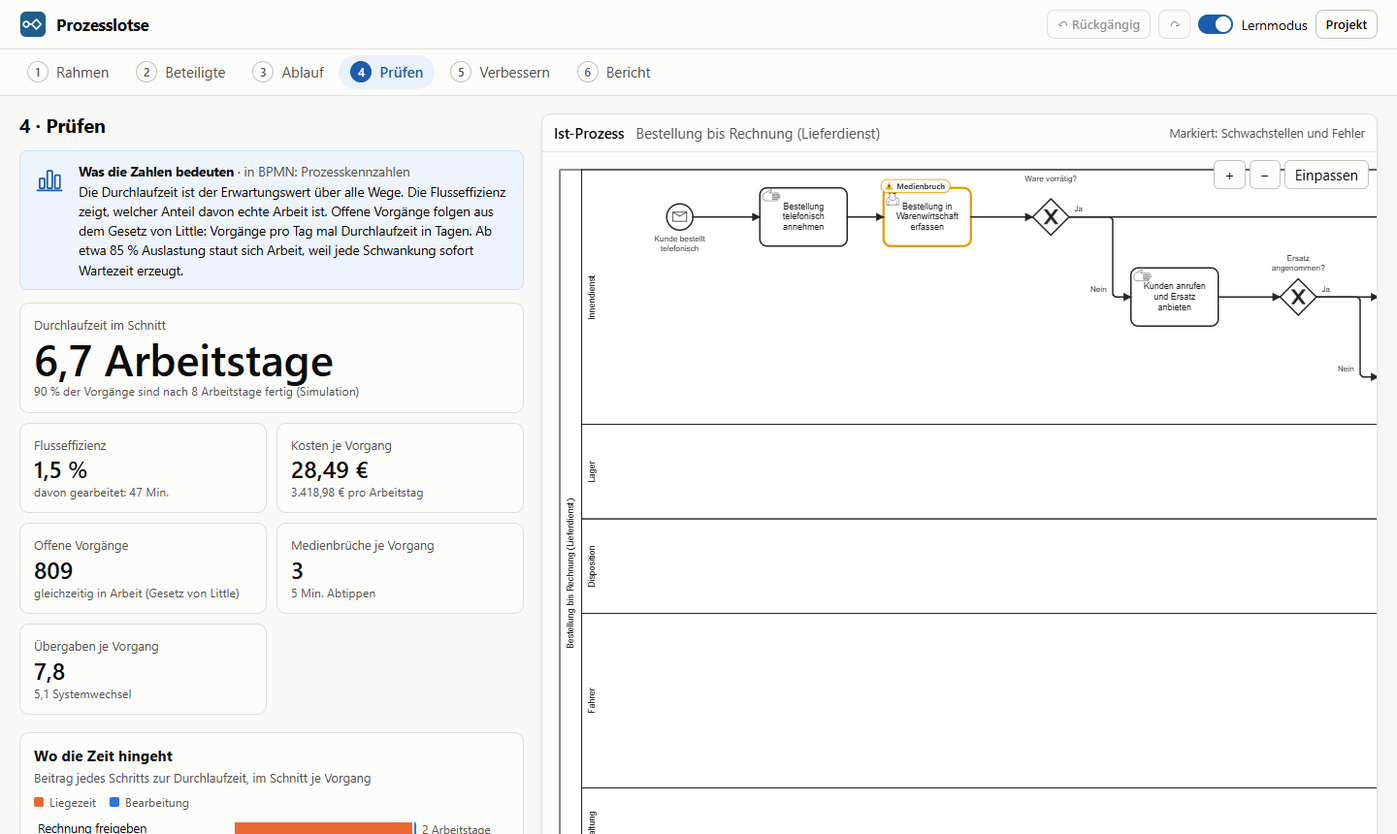
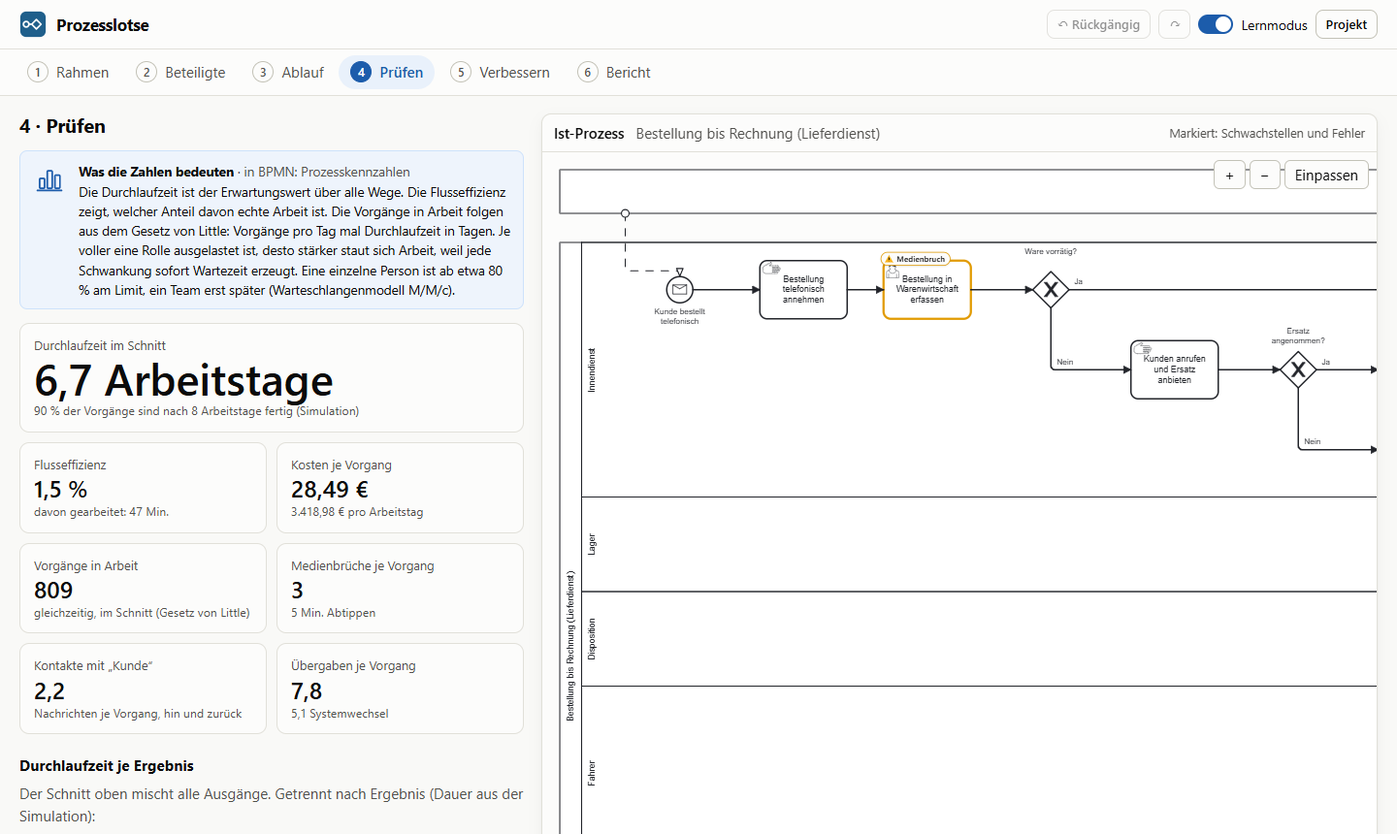
Doku: Stand nach der abschließenden Prüfung
- modellierung-stand.md: Abschnitt „Abschließende Prüfung“ mit Befunden,
  Korrekturen, Stichproben von Hand, verbleibenden Mängeln, Testzahlen.
- fragenkatalog.md: „Prozess endet“ wird in jedem Zweig angeboten (an
  nebenläufigen Stellen als „Prozess endet sofort“), Rücksprünge dort nicht.
- datenmodell.md, modellierung-v4.md: Ad-hoc-Bedingung in natürlicher
  Sprache, Stufen unter Schritten 20 px.
- README: 258 Unit-Tests; Bilder mit der neuen Linienführung neu
  aufgenommen.

diff --git a/docs/modellierung-v4.md b/docs/modellierung-v4.md
@@ -286,7 +286,7 @@ export interface Unterbrechung extends Sequenz {
 - Spalte 0 ist der Schritt (Aufgabe oder Rahmen). Jeder Ausnahmeweg bekommt ab Spalte 1 ein eigenes Band unter dem Band des Schritts, gestapelt wie Zweige, auch in anderen Bahnen. Die Zusammenführung steht, falls nötig, in der Bahn des Schritts hinter dem breitesten Weg. Der normale Ausgang läuft gerade weiter.
 - Randereignisse sitzen auf der Unterkante, von rechts nach links in der Reihenfolge ihrer Bänder (das oberste Band ganz rechts), Mittelpunkte 38 px auseinander; so schachteln sich die Abgänge ohne Kreuzung. An einer Aufgabe höchstens drei; an einem Rahmen so viele, wie neben der Mitte Platz haben, sonst bekommt der Rahmen am Ende leere Spalten. Die Fehler-Randereignisse für Enden im Rahmen (siehe „Ende je nach Ort“) werden genauso gelegt, als Ausnahmeweg ohne Schritte mit Ende.
 - Abgang: Liegt das erste Element des Ausnahmewegs in der Bahn des Schritts, läuft der Fluss vom Kreis senkrecht nach unten in Spalte 0 bis zu dessen Höhe und dann waagerecht. Spalte 0 ist in den Bändern des Blocks frei; das ist die ausdrücklich erlaubte Ausnahme von „senkrecht nur in Lücken“. Sonst endet das senkrechte Stück in einer dünnen Abgangsspur unter dem Schritt, und der Höhenwechsel geschieht im Kanal der Lücke hinter dem Schritt.
-- Nachricht zu einem Randereignis: vom Kreis unten links (45°) ein senkrechter Stummel nach unten (8 px plus 8 px je Randereignis links davon), waagerecht in die Lücke vor dem Schritt und dort im Kanal zum Pool. Alle waagerechten Stücke unter einem Schritt (Abgänge in der Abgangsspur, Nachrichten) bekommen getrennte Höhen im Abstand von 8 px. Eigene Nachrichten einer Aufgabe mit Randereignissen laufen über die Oberkante.
+- Nachricht zu einem Randereignis: vom Kreis unten links (45°) ein senkrechter Stummel nach unten (8 px plus 8 px je Randereignis links davon), waagerecht in die Lücke vor dem Schritt und dort im Kanal zum Pool. Alle waagerechten Stücke unter einem Schritt (Abgänge in der Abgangsspur, Nachrichten) bekommen getrennte Höhen im Abstand von 8 px (seit der abschließenden Prüfung 20 px, weil sie unter einem Rahmen über seine ganze Breite nebeneinander laufen). Eigene Nachrichten einer Aufgabe mit Randereignissen laufen über die Oberkante.
 - Ein leerer „weiter“-Weg bekommt eine Spur wie ein leerer Zweig und mündet von unten in die Zusammenführung.
 
 **Rechnung** für einen Schritt mit Häufigkeit f, unterbrechenden Ereignissen j (q_j, t_j, Ausnahmeweg A_j) und Nebenwegen k (c_k):
@@ -337,7 +337,7 @@ export interface Unterbrechung extends Sequenz {
 - *TCT einer Frist am Rahmen:* E[min(t, TCT)] aus der Verteilung der Bearbeitungszeit des Durchlaufs; die Zeit bis zur Unterbrechung verteilt sich in „Wo die Zeit hingeht“ anteilig auf die Schritte des Rahmens (an einer Aufgabe: Bearbeitung min(B, max(0, t − L)), der Rest Liegezeit), so dass die Beiträge die Durchlaufzeit genau ergeben.
 - *Übergaben:* Vor einem Ausnahmeweg oder Nebenweg eines Rahmens arbeitet dessen letzte Aufgabe (wie bei unterbrechenden Ereignissen), nicht der Vorgänger. Kontakte mit externen Beteiligten zählen eine Nachricht je eingetretener Unterbrechung. `Kennzahlen.haeufigkeiten` nennt, wie oft jede Stelle je Vorgang erreicht wird (auch Abschnitte und Unterbrechungen); das Formular zeigt damit „bei Ø 2 Ausführungen je Vorgang etwa 19 % der Vorgänge“ (1 − (1 − q)^h).
 - *Prüfung:* Neue Schlüssel `usumme`, `uanteil`, `ufrist`, `uviele`, `nebenende` (Ende oder Rücksprung im Nebenweg, auch tiefer darin oder aus ihm heraus), `ubezeichnung`, `uleer`, `ufristkurz`, `ufristrahmen` (laut der Verteilung des Rahmens mehr als 0,5 Prozentpunkte öfter überschritten als angegeben), `unie`, `unormal`, `umehrmals` (strukturell: der Schritt liegt in einer Wiederholung oder in „für jedes Stück“). Abweichung von Schritt 1 und 2: **„Verklemmung“ nur noch bei „Gleichzeitig“** außerhalb des äußersten Rahmens. Ein Ende in einem ODER-Weg ist der Fehler `abbruch`, denn die inklusive Zusammenführung wartet nach der Regel der Norm nicht auf einen beendeten Weg; der Vorgang liefe im BPMN weiter. Aufgefallen ist das, weil der Zufallsgenerator mit `auchUngueltig` jetzt Enden in Ausnahmewegen innerhalb von ODER-Wegen erzeugt und das Tokenspiel sie als sound bestätigte.
-- *Layout:* Der Block „Schritt mit Unterbrechungen“ (`layoutRandwege`) legt auch die Fehler-Randereignisse der Rahmen aus Schritt 1; ihre Diagramme bleiben gleich. Die Abgänge laufen über die allgemeine Linienführung: Ein Ersatzknoten in der letzten Spalte des Schritts steht auf der Höhe, auf der der Abgang waagerecht weiterläuft, davor kommt das senkrechte Stück vom Kreis. Die Abgangsspur entsteht nur, wenn ein Weg in einer anderen Bahn beginnt, ohne Schritte zurückspringt oder eine Nachricht zu einem Randereignis führt; sie trägt alle waagerechten Stücke unter dem Schritt (zuerst die Nachrichten, dann die Abgänge) im Abstand von 8 px und wächst mit ihnen. Abweichung: Über die Abgangsspur steht das Ereignis mit dem höchsten Ziel ganz rechts (nicht die Reihenfolge der Bänder); nur so kreuzen sich Abgänge nach oben und nach unten nicht. An einer Aufgabe sitzt das rechte Ereignis 22 px vor der rechten Kante, damit drei auf 120 px passen. Der Name eines Randereignisses steht an seinem Abgang, gewählt wie die Beschriftung eines Flusses.
+- *Layout:* Der Block „Schritt mit Unterbrechungen“ (`layoutRandwege`) legt auch die Fehler-Randereignisse der Rahmen aus Schritt 1; ihre Diagramme bleiben gleich. Die Abgänge laufen über die allgemeine Linienführung: Ein Ersatzknoten in der letzten Spalte des Schritts steht auf der Höhe, auf der der Abgang waagerecht weiterläuft, davor kommt das senkrechte Stück vom Kreis. Die Abgangsspur entsteht nur, wenn ein Weg in einer anderen Bahn beginnt, ohne Schritte zurückspringt oder eine Nachricht zu einem Randereignis führt; sie trägt alle waagerechten Stücke unter dem Schritt (zuerst die Nachrichten, dann die Abgänge) im Abstand von 8 px (seit der abschließenden Prüfung 20 px) und wächst mit ihnen. Abweichung: Über die Abgangsspur steht das Ereignis mit dem höchsten Ziel ganz rechts (nicht die Reihenfolge der Bänder); nur so kreuzen sich Abgänge nach oben und nach unten nicht. An einer Aufgabe sitzt das rechte Ereignis 22 px vor der rechten Kante, damit drei auf 120 px passen. Der Name eines Randereignisses steht an seinem Abgang, gewählt wie die Beschriftung eines Flusses.
 - *Tokenspiel:* Ein Nebenweg startet in einer eigenen Instanz `Pfad/Randereignis:n`, damit sich mehrere Nebenwege nicht mischen (sonst führte eine ODER-Zusammenführung darin zwei Läufe zusammen) und in Schleifen nie zwei Marken auf einem Fluss liegen. Die vollständige Suche schaltet Marken in Nebenwegen vorrangig: Sie teilen keinen Fluss mit dem übrigen Ablauf, ein Abbruch wartet ohnehin auf sie, also übersieht diese Reihenfolge keine Verklemmung; ohne sie wüchse der Zustandsraum mit jeder Schleife. Die Wahl am Rahmen bei einem anstehenden Abbruch nennt alle Rahmen mit Unterbrechungen zwischen dem Fehler-Ende und dem fangenden Rahmen, von innen nach außen, mit den Gewichten q · Π(1 − Σq der inneren Rahmen).
 - *Oberfläche:* Die Gliederung zeigt statt „⚡“ das Symbol des Randereignisses (durchgezogen bzw. gestrichelt), passend zu den übrigen Symbolen. Die Fragen stehen im Formular aller drei Schritte, für neue wie bestehende; eine neue Aufgabe mit Unterbrechung führt nach „Hinzufügen“ in den ersten Ausnahmeweg, Abschnitt und „für jedes Stück“ wie bisher in den Körper. „Gilt für die ganze Liste“ und „Gilt für mehrere Schritte …“ sind Knöpfe im Formular bestehender Schritte (`verschiebeUnterbrechung`, `unterbrechungFuerAbschnitt`); ein Rücksprung der Unterbrechung entfällt beim Umhängen. „Abschnitt auflösen“ fragt nach, wenn der Abschnitt Unterbrechungen hat. Der Absender einer Nachricht lässt sich direkt im Formular als neuer externer Beteiligter anlegen.
 - *Verbesserungsregeln:* „Zusammenlegen“ und die Knock-out-Reihenfolge lassen Aufgaben mit Unterbrechungen aus, „Gleichzeitig ausführen“ verlangt auch vom zweiten Schritt, dass er den Prozess nicht verlässt.
@@ -375,7 +375,7 @@ Ein Feld statt zweier: „erster“ zusammen mit „nacheinander“ gibt es nich
 
 **nacheinander** („eine Person nacheinander, Reihenfolge egal“):
 
-- BPMN: `adHocSubProcess` mit `ordering="Sequential"` und `completionCondition` „alle Zweige erledigt“ (`tFormalExpression` mit diesem Text), dazu eine Dokumentation. Je Zweig genau eine Aktivität ohne Sequenzfluss: Ein Zweig aus genau einer Aufgabe, einem Abschnitt oder einem Mehrfach-Baustein ohne Unterbrechungen bleibt, wie er ist; alles andere wird ein eingebetteter Teilprozess „Zweig n“ mit eigenem Start und Ende. Direkt im Ad-hoc-Rahmen stehen keine Start- und Endereignisse.
+- BPMN: `adHocSubProcess` mit `ordering="Sequential"` und `completionCondition` „alle Zweige erledigt“ (seit der abschließenden Prüfung als einfacher Ausdruck in natürlicher Sprache, `tExpression`; ein `tFormalExpression` ohne Sprache wäre XPath), dazu eine Dokumentation. Je Zweig genau eine Aktivität ohne Sequenzfluss: Ein Zweig aus genau einer Aufgabe, einem Abschnitt oder einem Mehrfach-Baustein ohne Unterbrechungen bleibt, wie er ist; alles andere wird ein eingebetteter Teilprozess „Zweig n“ mit eigenem Start und Ende. Direkt im Ad-hoc-Rahmen stehen keine Start- und Endereignisse.
 - Layout: Rahmen in einer Bahn; die Aktivitäten untereinander in der ersten Spalte des Rahmens (eingebettete Zweige sind selbst Rahmen); Ein- und Austritt auf Höhe der ersten Aktivität.
 - Rechnung: wie eine Folge der Zweige in der Reihenfolge der Liste: Dauer = Summe, Häufigkeiten, Enden und Übergaben (vom letzten Schritt eines Zweigs zum ersten des nächsten) wie in einer Folge. Grenze: Die Reihenfolge der Liste ist eine Annahme.
 - Enden in einem Zweig sind erlaubt (Fehler-Ende im eingebetteten Teilprozess, es steigt zum äußersten Rahmen auf); spätere Zweige laufen dann nicht. Rücksprünge nur innerhalb eines Zweigs.

diff --git a/docs/modellierung-stand.md b/docs/modellierung-stand.md
@@ -136,8 +136,34 @@ Hinweise für die abschließende Prüfung:
 - Rücksprünge innerhalb eines Zweigs von Gleichzeitig erlauben Modell und Prüfung, das Formular bietet sie nicht an (unverändert seit Format 3).
 - Probe außerhalb der festen Tests: alle 226 Zufallsprozesse mit Abbruch unter den Startwerten 1 bis 600 stimmen in Simulation, Verteilung, Tokenspiel (Häufigkeiten und Ergebnisse) und Soundness überein.
 
+## Abschließende Prüfung
+
+Am 2026-11-11 gegen BPMN 2.0, die Zeichenregeln und die Rechnung geprüft. Commits auf `modellierung`: 122dbed „Lange parallele Linien mindestens 20 px auseinander“, 724d10e (Ad-hoc-Bedingung), a1defca (Hinweis „Lange Liegezeit“), e377384 (Simulation bei fehlendem Standardweg) und der Doku-Commit „Doku: Stand nach der abschließenden Prüfung“.
+
+- [x] **Lange Parallelen (Befund abnahme-4 der Compliance-Prüfung).** Im Beispiel Lieferdienst liefen die Nachrichten „Benachrichtigung hinterlassen → Kunde“ und „Kunde → Neuen Liefertermin abwarten“ 777 px senkrecht mit 10 px Abstand; die Fächer aus Gleichzeitig-Rauten liefen mit 10 px (bei vielen Wegen weniger) lange parallel. In 300 Zufallsprozessen gab es 1 351 Paare mit 10 px Abstand über mehr als 300 px. Neu: Zwei Flüsse, die länger als 100 px nebeneinander laufen, liegen mindestens 20 px auseinander (`PARALLEL` in `linien.ts`, Prüfung `langeParallelen` in `geometrieFehler`). Schwelle: „Einpassen“ verkleinert das Lieferdienst-Diagramm auf einem Notebook auf 0,18; 10 px werden dort 1,8 Gerätepixel (verschmolzen, gemessen in der Compliance-Abnahme), 20 px 3,6 Gerätepixel mit hellen Spalten dazwischen. Unter 100 px (verkleinert etwa 18 Gerätepixel) sind beide Knicke nahe beieinander sichtbar. 20 px ist der größte Abstand, mit dem drei Senkrechte auf die untere Kante einer 50-px-Raute passen.
+  - Kanäle: Spuren 24 px statt 10 px, wenn ihre Stücke länger als 100 px nebeneinander laufen; Spuren bleiben 20 px neben den Senkrechten an Rauten.
+  - Rauten: Senkrechte 20 px auseinander über die ganze Kante (der tiefste Weg links außen, nicht mehr an der unteren Ecke). Passen sie nicht, wechselt die flachste die Höhe in der Lücke (Stummel). Stummel liegen möglichst 20 px auseinander und dürfen an eine freie seitliche Ecke; ihre Spuren liegen direkt neben der Raute (Kosten in `ordneKanal`, Ausrichtung der Lücke zur Raute), damit ihre waagerechten Stücke kurz bleiben.
+  - Waagerechte Stücke unter einem Schritt (Abgänge, Nachrichten zu Randereignissen) 20 px statt 8 px auseinander (`RAND.stufe`); unter einem Rahmen liefen zwei Nachrichten sonst 504 px mit 8 px Abstand.
+  - Grenze: Mehr als etwa sechs Wege in eine Richtung (z. B. acht Fälle in derselben Bahn) passen nicht mit Abstand auf eine Raute; dann liegen sie wie bisher dicht, aber nie auf einer Strecke (Test „Grenze: mehr als sechs Wege …“, README).
+  - Angesehen mit `render.mjs` vorher und nachher, eingepasst, mit `SKALA=0.5` und auf Notebook-Zoom 0,18 mit Lupe: Lieferdienst, Onlinebestellung (Fächer aus Gleichzeitig und Ereignis-Entscheidung) und Zufallsprozess 8 (drei Fächer). Vorher verschmelzen Nachrichten und Fächer zu einer Linie, nachher sind sie getrennt erkennbar. Prüfsummen der Beispiele neu aufgenommen; der Formattest vergleicht zusätzlich das BPMN vor und nach dem Lesen.
+- [x] **Ad-hoc-Teilprozess:** Die `completionCondition` „alle Zweige erledigt“ stand als `tFormalExpression`; ohne Angabe der Sprache ist das XPath, also kein gültiger Ausdruck. Jetzt ein einfacher Ausdruck in natürlicher Sprache (`tExpression`), wie ihn BPMN 2.0 für nicht ausführbare Bedingungen vorsieht (Test in `gleichzeitig.test.ts`).
+- [x] **Hinweis „Lange Liegezeit“ bei Fristen:** Im Rundgang stand „Vor „Ware verpacken“ liegt der Vorgang 0 Min., das sind 57 % der Durchlaufzeit“. Die Zeit bis zum Ablauf einer Frist zählt zur Liegezeit des Schritts, das Feld Liegezeit kennt sie nicht. Jetzt: „… hält den Vorgang im Schnitt 48 Min. auf, ohne dass daran gearbeitet wird: 0 Min. Liegezeit davor und 48 Min. Warten, bis eine Frist abläuft …“ (Test in `unterbrechung.test.ts`, von Hand: 0,1 · (480 − 5) = 47,5 Min.).
+- [x] **Simulation bei fehlendem Standardweg einer ODER-Verzweigung** (nur in von Hand geänderten Dateien; die Prüfung meldet den Fehler, „Prüfen“ simuliert trotzdem): Sie brach mit einem Laufzeitfehler ab. Jetzt gilt wie in der Rechnung „mindestens einer“ (Test in `oder.test.ts`, von Hand 17,5 / 0,75 = 23,33 Min.).
+- [x] **Fragenkatalog:** „Prozess endet“ stand noch als „nur in Zweigen von „in beliebiger Reihenfolge““; seit Schritt 5 gibt es das Ende in jedem Zweig, an nebenläufigen Stellen als „Prozess endet sofort …“, ohne Rücksprünge.
+- [x] **Ohne Befund geprüft:**
+  - Stichproben von Hand gegen Formeln und Simulation (40 000 Läufe): „für jedes Stück“ nacheinander mit Nachricht am Rahmen (99,75 Min., TCT 28,5, Arbeit 30, 10 % storniert), Abschnitt mit schwankender Dauer und Frist (36,25 Min., TCT 33,75), „in beliebiger Reihenfolge“ mit Mehrfach-Zweig und „Zweig 3“ (80 Min.), Stücke zur selben Zeit mit Abbruch (13,2 Min., 36 % Ausfall = 1 − 0,8²), Nachricht „vorher“ mit „noch einmal von vorn“ (107,5 Min., TCT 40, Arbeit 47,5, Häufigkeit 1,25), „weiter beim ersten“ mit Ende im schnellsten Zweig (23,5 Min., Arbeit 113,5, 30 % abgelehnt), ODER mit Ende in einem Weg im Abschnitt (29,5 Min., 6 % ungültig, Arbeit 30,7). Alle Formeln exakt, Simulation innerhalb von vier Standardfehlern; bpmn-moddle und bpmn-js ohne Warnungen; Tokenspiel sound auf Layout und XML.
+  - BPMN-Semantik: Fehler-Ende im Rahmen mit `errorRef`, gefangen am äußersten Rahmen, auch durch Mehrfach- und Ad-hoc-Rahmen; Terminierung in „weiter beim ersten“ beendet nur den Teilprozess; Terminierung auf Prozessebene nur neben Nebenläufigem; Randereignisse mit `cancelActivity`; Mehrfach mit `isSequential` und `loopCardinality` nur bei fester ganzer Zahl.
+  - Rundgang im Browser über den Assistenten mit allen Formen in einem Prozess (Abschnitt mit „für jedes Stück“ zur selben Zeit, Aufgabe mit Frist, „weiter beim ersten“ mit „Prozess endet sofort“, „in beliebiger Reihenfolge“): keine Konsolenfehler, Gliederung, Prüfen und Export stimmig; dazu die Browsertests je Form.
+
+Verbleibende Mängel:
+
+- Sehr große Fächer (mehr als etwa sechs Wege in eine Richtung) liegen dichter als 20 px (Grenze in README).
+- Nachrichtenflüsse dürfen Rahmen senkrecht queren und laufen dabei manchmal durch den Namen des Rahmens (zählt in `beschriftungenAufLinien`, unter 2 %).
+- Zeit-Randereignisse tragen die Frist nur in der Dokumentation, nicht als `timeDuration` (die Frist ist in Arbeitszeit angegeben, ISO-Dauern sind Kalenderzeit).
+
 ## Offen für Robin
 
+- Linienführung abnehmen: lange Parallelen jetzt 20 px (Rauten) bzw. 24 px (Kanäle) auseinander, der tiefste Weg eines Fächers liegt nicht mehr an der unteren Ecke, Stufen unter Schritten 20 px; Bilder vorher/nachher im Prüfbericht. Die README-Bilder zeigen das Beispiel mit der neuen Linienführung.
 - Bedienprobe: Eine Person ohne BPMN-Kenntnis bildet drei Fälle ab (Kunde schickt Unterlagen; Ausweis und/oder Nachweis fehlt; je Position kommissionieren); danach die Texte anpassen.
 - Bewusst nicht übernommen: ODER als Kombinationen abfragen (Format 3 fragt Häufigkeiten je Weg), „übrige Zweige laufen zu Ende“ bei „weiter beim ersten“, zugeklappte Teilprozesse.
 - Annahmen in den README-Grenzen: abgebrochene Arbeit zählt voll, „weiter beim ersten“ bricht ab, „in beliebiger Reihenfolge“ in Listenreihenfolge (seit Schritt 4), Nebenwege verlängern nichts und Unterbrechungen mit festen Anteilen (seit Schritt 3), der früheste Abbruch nach Durchschnittszeiten und Schritte hinter einer ODER-Zusammenführung zählen nicht, wenn ein Weg den Vorgang beendet (seit Schritt 5).
@@ -155,3 +181,4 @@ Hinweise für die abschließende Prüfung:
 | Schritt 3, Unterbrechung (Commits 5d73e28 und addb89b) | 210 in 20 Dateien | 23 |
 | Schritt 4, Gleichzeitig-Arten (Commit 3c1d07f) | 231 in 21 Dateien | 25 |
 | Schritt 5, Abbruch (Commit 8b2b56c) | 253 in 22 Dateien | 26 |
+| Abschließende Prüfung (Commits 122dbed bis e377384) | 258 in 22 Dateien | 26 |

diff --git a/docs/fragenkatalog.md b/docs/fragenkatalog.md
@@ -34,9 +34,9 @@ Der Assistent führt eine **Einfügeposition**: Er fragt immer an einer bestimmt
 | Antwort | Folgefragen | Danach |
 | --- | --- | --- |
 | Eine Aufgabe | Name (Objekt + Verb) · Wer? (Rolle) · Womit? (System) · Wie lange dauert die Bearbeitung? · Wie lange liegt der Vorgang vorher? · Braucht dieser Schritt das Ergebnis des vorherigen? (nur wenn es einen gibt) · Werden Daten von Hand übertragen? Wenn ja: aus welchem System, wie viele Minuten davon? · Bei externen Beteiligten: Schickt der Schritt etwas an jemand Externen? Bekommt er etwas von jemand Externem? · Ist es eine Prüfung oder eine Freigabe? Bei Freigabe: Wie oft wird freigegeben? (Folgt direkt eine Entscheidung, gilt deren Ausgang, und die Frage entfällt.) | weiter hinter der Aufgabe |
-| Eine Entscheidung | Wovon hängt ab, wie es weitergeht: von einer Prüfung oder Angabe, oder davon, was zuerst passiert? · Welche Frage wird entschieden bzw. worauf wird gewartet? · Welche Ausgänge gibt es (Bezeichnung, Anteil in %)? Bei „was zuerst passiert“ je Ausgang: Nachricht oder Frist, nach welcher Zeit im Schnitt? · Danach: weiter im Ablauf, Prozess endet (mit welchem Ergebnis?) oder zurück zu einem früheren Schritt (Auswahl aus den Schritten davor) | weiter im ersten Ausgang |
+| Eine Entscheidung | Wovon hängt ab, wie es weitergeht: von einer Prüfung oder Angabe, oder davon, was zuerst passiert? · Welche Frage wird entschieden bzw. worauf wird gewartet? · Welche Ausgänge gibt es (Bezeichnung, Anteil in %)? Bei „was zuerst passiert“ je Ausgang: Nachricht oder Frist, nach welcher Zeit im Schnitt? · Danach: weiter im Ablauf, Prozess endet (mit welchem Ergebnis?) oder zurück zu einem früheren Schritt (Auswahl aus den Schritten davor). Neben gleichzeitig laufenden Schritten (Zweige, ODER-Wege, Stücke zur selben Zeit) heißt das Ende „Prozess endet sofort; was gleichzeitig läuft, wird abgebrochen“, und Rücksprünge werden dort nicht angeboten; im Nebenweg einer Unterbrechung gibt es weder Ende noch Rücksprung | weiter im ersten Ausgang |
 | Mehrere Wege möglich | Worum geht es? · Welche Wege kommen in Frage (Bezeichnung) und wie oft kommt jeder vor (Anteil in %)? · Was passiert, wenn keiner zutrifft: eigener Weg (mit Namen) oder trifft immer mindestens einer zu? Im zweiten Fall ergeben die Anteile zusammen mindestens 100 %; die Summe steht unter den Wegen. | weiter im ersten Weg |
-| Mehrere Dinge unabhängig voneinander („gleichzeitig, in beliebiger Reihenfolge oder bis eins fertig ist“) | Wann geht es weiter? (wenn alle fertig sind, Vorgabe / sobald eins fertig ist, die anderen werden abgebrochen) · nur bei „alle fertig“: Wer erledigt die Zweige? (zur selben Zeit, Vorgabe / eine Person nacheinander, Reihenfolge egal) · Zweige (zwei, „+ Zweig“). Darunter die Abgrenzung: „Hängt es davon ab, was von außen zuerst passiert (Antwort, Frist)? Dann ist es eine Entscheidung „was zuerst passiert“.“ Bei „weiter beim ersten“ und „in beliebiger Reihenfolge“ nennt das Formular die Bahn des Rahmens; bei „weiter beim ersten“ steht je Zweig, wie oft er laut Rechnung zuerst fertig ist. Titel nach Art: „Gleichzeitig“, „Weiter beim ersten“, „In beliebiger Reihenfolge“ (je mit Zahl der Zweige). | weiter im ersten Zweig („in Zweig 1 von „Weiter beim ersten““); „Abschnitt fertig“ führt in den nächsten Zweig, nach dem letzten dahinter. „Prozess endet“ wird nur in Zweigen von „in beliebiger Reihenfolge“ angeboten |
+| Mehrere Dinge unabhängig voneinander („gleichzeitig, in beliebiger Reihenfolge oder bis eins fertig ist“) | Wann geht es weiter? (wenn alle fertig sind, Vorgabe / sobald eins fertig ist, die anderen werden abgebrochen) · nur bei „alle fertig“: Wer erledigt die Zweige? (zur selben Zeit, Vorgabe / eine Person nacheinander, Reihenfolge egal) · Zweige (zwei, „+ Zweig“). Darunter die Abgrenzung: „Hängt es davon ab, was von außen zuerst passiert (Antwort, Frist)? Dann ist es eine Entscheidung „was zuerst passiert“.“ Bei „weiter beim ersten“ und „in beliebiger Reihenfolge“ nennt das Formular die Bahn des Rahmens; bei „weiter beim ersten“ steht je Zweig, wie oft er laut Rechnung zuerst fertig ist. Titel nach Art: „Gleichzeitig“, „Weiter beim ersten“, „In beliebiger Reihenfolge“ (je mit Zahl der Zweige). | weiter im ersten Zweig („in Zweig 1 von „Weiter beim ersten““); „Abschnitt fertig“ führt in den nächsten Zweig, nach dem letzten dahinter. „Prozess endet“ wird in jedem Zweig angeboten; in Zweigen von „alle fertig“ und „weiter beim ersten“ heißt es „Prozess endet sofort; was gleichzeitig läuft, wird abgebrochen“. Rücksprünge führen nie aus einem Zweig hinaus; in Zweigen von „alle fertig“ und „weiter beim ersten“ bietet das Formular keine an |
 | Etwas wird wiederholt | Welche Frage entscheidet über die Wiederholung? · In wie viel Prozent der Durchläufe wird wiederholt? „Wozu wird wiederholt: Korrektur oder mehrere Durchgänge?“ erscheint nur noch bei Wiederholungen, die schon „mehrere Durchgänge“ tragen; sonst verweist ein Satz auf „Etwas für jedes Stück einer Liste“. | weiter im Körper der Wiederholung |
 | Etwas für jedes Stück einer Liste | Wofür? (Pflicht, z. B. „Für jede Position“) · Wie viele hat ein einzelner Vorgang im Schnitt? (Zahl, Vorgabe 3; darunter live „Bei 20 Vorgängen am Tag sind das 60 am Tag.“) · Sind es immer etwa gleich viele? (ja, Vorgabe / nein, das schwankt stark) · Wie werden sie erledigt? (eine Person arbeitet sie der Reihe nach ab, Vorgabe / zur selben Zeit: mehrere Leute teilen sich die Liste, oder man wartet auf mehrere Antworten zugleich) · Wie lange liegt der Vorgang, bevor jemand mit dem ersten Stück anfängt? (Vorgabe 0). Das Formular sagt, ob die Aufgabe die Markierung trägt oder in welcher Bahn der Rahmen steht. | weiter je Stück („je Stück in „Für jede Position““); Aufgaben dort fragen „Wartezeit zwischen zwei Stücken“ (der Reihe nach, erster Schritt) bzw. „Wartezeit je Stück“ und zeigen „Liegezeit zählt einmal, Bearbeitung je Stück: 2,5 × 10 Min.“; „Abschnitt fertig“ führt dahinter |
 | Warten | Worauf wird gewartet? · Auf einen Zeitpunkt oder auf eine Nachricht? · Wie lange im Schnitt? · Bei Nachricht und externen Beteiligten: Von wem kommt sie? | weiter hinter dem Warten |

diff --git a/README.md b/README.md
@@ -82,7 +82,7 @@ Die Fachlogik kennt kein React und ist vollständig getestet. bpmn-js dient nur 
 
 ## Qualität
 
-- 253 Unit-Tests und 3 Rust-Tests, darunter von Hand nachgerechnete Kennzahlen und ein Belastungstest mit 300 zufällig erzeugten, verschachtelten Prozessen (mit Rücksprüngen, Ereignis-Entscheidungen, ODER-Verzweigungen, Abschnitten, Mehrfachinstanzen, Unterbrechungen, „weiter beim ersten“, „in beliebiger Reihenfolge“, Abbrüchen neben gleichzeitig laufenden Schritten und Nachrichten): keine Überlappung, keine Kante durch fremde Elemente, keine zwei Linien auf derselben Strecke oder am selben Anschluss, keine zwei Linien länger als 100 px dichter als 20 px nebeneinander, kein Sequenzfluss über eine Rahmengrenze, Randereignisse auf dem Rand ihres Schritts, Beschriftungen frei, Schema-Prüfung mit bpmn-moddle.
+- 258 Unit-Tests und 3 Rust-Tests, darunter von Hand nachgerechnete Kennzahlen und ein Belastungstest mit 300 zufällig erzeugten, verschachtelten Prozessen (mit Rücksprüngen, Ereignis-Entscheidungen, ODER-Verzweigungen, Abschnitten, Mehrfachinstanzen, Unterbrechungen, „weiter beim ersten“, „in beliebiger Reihenfolge“, Abbrüchen neben gleichzeitig laufenden Schritten und Nachrichten): keine Überlappung, keine Kante durch fremde Elemente, keine zwei Linien auf derselben Strecke oder am selben Anschluss, keine zwei Linien länger als 100 px dichter als 20 px nebeneinander, kein Sequenzfluss über eine Rahmengrenze, Randereignisse auf dem Rand ihres Schritts, Beschriftungen frei, Schema-Prüfung mit bpmn-moddle.
 - Tokenspiel nach den Ausführungsregeln von BPMN 2.0, mit Teilprozessen als Bereichen, Fehler-Enden, Terminierungen, Ad-hoc-Teilprozessen, Randereignissen (unterbrechend und nebenher) und der Regel der Norm für die inklusive Zusammenführung: Für beide Beispiele und alle 300 Zufallsprozesse ist das exportierte Diagramm sound (keine Verklemmung, jeder Vorgang kann enden, kein toter Schritt), der aus dem XML gelesene Graph gleicht dem des Layouts, und die Häufigkeiten und Ergebnisanteile aus dem Tokenspiel stimmen mit den Formeln überein. Stehen mehrere Abbrüche an, entscheidet in der Zählung eine Uhr je Marke, welcher zuerst kommt.
 - 26 Browsertests: Prozess vollständig über den Assistenten anlegen, Korrekturschleife mit Rücksprung, ODER-Verzweigung, Abschnitt mit Ende darin, Schritte zu einem Abschnitt zusammenfassen und auflösen, „für jede Position“ anlegen, Mengenschleife aus einer älteren Datei umwandeln, Unterbrechung mit Ende und Nebenweg anlegen, Frist über mehrere Schritte mit „noch einmal von vorn“, „weiter beim ersten“ und „in beliebiger Reihenfolge“ mit Ende in einem Zweig anlegen, Prozessende in einem Zweig von „Gleichzeitig“, Kunde als Pool mit Nachrichten, Tastaturbedienung, Vorschlag übernehmen, Exporte, Datei öffnen, BPMN wieder öffnen, Rückfrage bei ungespeicherten Änderungen.
 - Desktop-Test am echten Programm (`npm run desktop:test`): 16 Prüfungen von Speichern unter bis zur Rückfrage beim Schließen, PDF-Seite in A4.

diff --git a/docs/datenmodell.md b/docs/datenmodell.md
@@ -20,7 +20,7 @@ Quelltext: [`src/modell/typen.ts`](../src/modell/typen.ts)
 | Mehrere Wege möglich (ODER) | Je nach Fall laufen einer, mehrere oder alle Wege; weiter, wenn alle gewählten fertig sind | Inklusives Gateway (Raute mit Kreis), Standardfluss für „keiner davon“ | Frage, Wege mit eigenem Anteil (wie oft der Weg vorkommt), dazu entweder ein Weg „wenn keiner zutrifft“ oder „mindestens einer trifft immer zu“ (dann zusammen mindestens 100 %) |
 | Mehrere Dinge unabhängig voneinander: Gleichzeitig | Alle Zweige laufen, weiter erst, wenn alle fertig sind | Paralleles Gateway (Raute mit +) | mindestens zwei Zweige; `art: 'alle'` |
 | … Weiter beim ersten | Alle Zweige laufen los; sobald einer fertig ist, geht es weiter, die übrigen werden abgebrochen | Aufgeklappter Teilprozess: Start, paralleles Gateway, jeder Zweig endet in einem Terminierungs-Endereignis | mindestens zwei Zweige; `art: 'erster'` |
-| … In beliebiger Reihenfolge | Eine Person erledigt jeden Zweig genau einmal, die Reihenfolge ist egal | Ad-hoc-Teilprozess (`ordering="Sequential"`, `completionCondition` „alle Zweige erledigt“), je Zweig eine Aktivität ohne Sequenzfluss | mindestens zwei Zweige; `art: 'nacheinander'` |
+| … In beliebiger Reihenfolge | Eine Person erledigt jeden Zweig genau einmal, die Reihenfolge ist egal | Ad-hoc-Teilprozess (`ordering="Sequential"`, `completionCondition` „alle Zweige erledigt“ als Ausdruck in natürlicher Sprache), je Zweig eine Aktivität ohne Sequenzfluss | mindestens zwei Zweige; `art: 'nacheinander'` |
 | Wiederholung | Schritte laufen mindestens einmal, danach mit Wahrscheinlichkeit p erneut | Exklusives Gateway vorn (Zusammenführung) und hinten (Frage) mit Rückfluss | Frage, Wiederholungsanteil p < 100 % |
 | Warten | Der Vorgang wartet auf einen Zeitpunkt oder eine Nachricht | Zwischenereignis mit Uhr oder Brief | Name, Art, Dauer, bei Nachricht optional der Absender (externer Beteiligter) |
 | Abschnitt mit Namen | Fasst Schritte in einem Rahmen zusammen, z. B. „Ware versenden“; gerechnet wie die Folge seiner Schritte | Aufgeklappter Teilprozess mit eigenem Start und Ende, im Diagramm in einer Bahn | Name, Schritte (`koerper`) |
